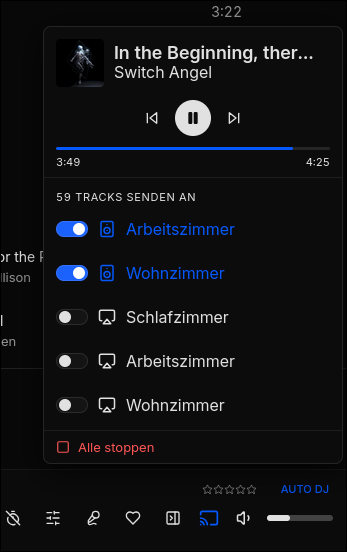
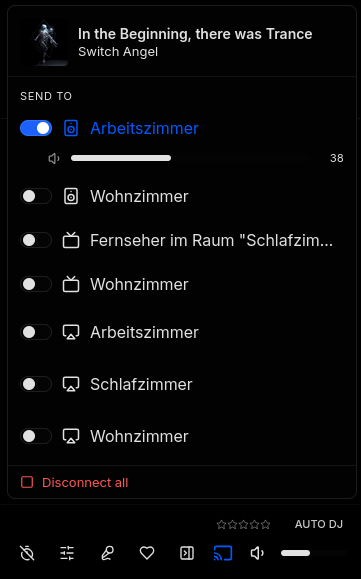
feat: Update changelog and version to 0.2.0

diff --git a/CHANGELOG.md b/CHANGELOG.md
@@ -4,6 +4,36 @@ All notable changes to this project will be documented in this file.
 
 The format is based on [Keep a Changelog](https://keepachangelog.com/en/1.0.0/), and this project adheres to [Semantic Versioning](https://semver.org/spec/v2.0.0.html).
 
+## [0.2.0] - 2026-05-15
+
+### Changed
+
+- **Single-track streaming instead of playlist streaming** — Connect no longer pushes the whole queue to the backend at once. Each track is streamed individually, and the next one is sent automatically when the previous finishes. This makes shuffle / repeat / manual skips behave correctly on the remote and removes the need to re-sync the queue when it changes locally.
+- **Upstream player UI reused for transport controls** — play, pause, next, previous, shuffle, repeat and stop now go through Feishin's existing playerbar controls. When Connect is active, the same buttons drive the remote stream instead of local playback (via `useConnectPlayback` and the `connect.store` handlers wired through `useConnectSession`). No more parallel control surface inside the Connect popover.
+
+### Added
+
+- **Chromecast (Google Cast) support** — stream to any Chromecast device on the network alongside Sonos and AirPlay. Discovery, playback, per-device volume, mid-stream join, and selective stop all work the same way as the other backends. A long-lived `CastBrowser` keeps zeroconf alive for the process lifetime so reconnects after network blips don't fail.
+- **Connect popover refactor** — `connect-button.tsx` was split into focused modules: `connect-popover.tsx`, `connect-session-context.ts`, `use-connect-session.ts`, `use-connect-playback.ts`, and a dedicated Zustand `connect.store.ts`. The pairing modal is now i18n-aware and shows user-friendly error messages.
+- **Backend test suite** — ~115 pytest tests covering `DeliveryManager` parsing and fan-out, all three delivery classes (Sonos, AirPlay, Chromecast), `/discover`, `/device-volume`, `/device-stop`, `/join`, credentials persistence and the Navidrome proxy. Runs in under a second without any real devices.
+
+### Fixed
+
+- **Local + remote double audio during auto track switch** (~20% of the time, Docker only) when **Crossfade** or **Gapless** transitions were enabled in playback settings. The crossfade and gapless handlers in the web player called `audio.play()` imperatively on the next player element, bypassing the status-based safety net. Both handlers now bail out early when Connect is active, eliminating any path for the local player to emit audio while a remote stream is running.
+- **Local player runaway after Connect's track-end advance** — added a safety net that subscribes to the player store and pauses immediately if anything flips local status to `PLAYING` while Connect is active. Catches edge cases (MediaSession API calls, hotkeys, queue mutations) that the explicit `mediaPause()` calls miss.
+- Connect i18n keys restored after upstream locale restructuring.
+
+### Internal
+
+- All remaining German log messages and code comments in the Python backend translated to English for consistency.
+- `__pycache__` and `.pyc` files now gitignored.
+
+### Known issues
+
+- **AirPlay 1 (RAOP) verified** on AirPort Express hardware. **Sonos devices with AirPlay 2** require MFi hardware authentication (proprietary implementation) which pyatv cannot provide — the backend returns HTTP 470 with a clear message. Use Sonos speakers via the Sonos protocol instead.
+
+---
+
 ## [0.1.3] - 2026-05-10
 
 ### Added

diff --git a/README.md b/README.md
@@ -3,7 +3,7 @@
 # Feishin — Connect Fork
 
 > **This is a fork of [jeffvli/feishin](https://github.com/jeffvli/feishin).**
-> It adds **Feishin Connect** — a Spotify Connect-like feature that streams your Navidrome queue to Sonos speakers and AirPlay devices directly from the player bar.
+> It adds **Feishin Connect** — a Spotify Connect-like feature that streams your Navidrome queue to Sonos, AirPlay and Chromecast devices directly from the player bar.
 > All upstream features are preserved.
 
   <p align="center">
@@ -21,7 +21,7 @@
 
 ## Feishin Connect
 
-Feishin Connect adds a cast button to the player bar. Click it to stream the current Navidrome queue — or a radio stream — to any Sonos speaker or AirPlay device on your network, without touching the local player.
+Feishin Connect adds a cast button to the player bar. Click it to stream the current Navidrome queue — or a radio stream — to any Sonos speaker, AirPlay or Chromecast device on your network, without touching the local player.
 
 <img src="assets/feishin-connect-screenshot.png" width="350px">
 
@@ -37,20 +37,21 @@ Please expect rough edges and report issues if you encounter them.
 - Feishin fetches the stream from Navidrome and re-encodes it via **FFmpeg** into a continuous MP3 stream.
 - **Sonos** devices are controlled via UPnP (SoCo) and pull the stream over HTTP.
 - **AirPlay** devices receive the stream pushed via pyatv / RAOP.
+- **Chromecast** devices are controlled via pychromecast and pull the stream over HTTP.
 
 ### Features
 
-- Stream the current queue to one or multiple Sonos / AirPlay devices simultaneously
+- Stream the current queue to one or multiple Sonos / AirPlay / Chromecast devices simultaneously
 - Sonos multiroom grouping (devices play in sync)
-- Per-device volume control with a hover slider
+- Per-device volume control with a hover slider (Sonos and Chromecast)
 - Play/pause/previous/next controls in the popover (operated on the remote device)
 - Radio stream support (sends the live URL directly to the device)
 - Persistent state — Connect continues if you reload Feishin in the browser
-- Local playback pauses automatically when handing off to a device
+- Local playback pauses automatically when handing off to a device (Crossfade and Gapless transitions are also disabled locally while Connect is active to prevent double-audio)
 
 ### Docker (recommended)
 
-Host networking is required so the backend can discover Sonos and AirPlay devices via mDNS/SSDP multicast.
+Host networking is required so the backend can discover Sonos, AirPlay and Chromecast devices via mDNS/SSDP multicast.
 
 ```yaml
 services:
@@ -93,7 +94,7 @@ services:
 ### Requirements
 
 - Navidrome (or compatible Subsonic/OpenSubsonic server)
-- Sonos and/or AirPlay devices on the same network as the Docker host
+- Sonos, AirPlay and/or Chromecast devices on the same network as the Docker host
 - Docker host on Linux (host networking is Linux-only; Mac/Windows users need to run the backend natively)
 
 ### Electron (desktop app)
@@ -181,7 +182,7 @@ Rewrite of [Sonixd](https://github.com/jeffvli/sonixd). Original project by [@je
 - [x] Scrobble playback to your server
 - [x] Smart playlist editor (Navidrome)
 - [x] Synchronized and unsynchronized lyrics support
-- [x] **Stream to Sonos / AirPlay via Feishin Connect** *(this fork)*
+- [x] **Stream to Sonos / AirPlay / Chromecast via Feishin Connect** *(this fork)*
 - [ ] [Request a feature](https://github.com/jeffvli/feishin/issues) or [view taskboard](https://github.com/users/jeffvli/projects/5/views/1)
 
 ### Screenshots
@@ -235,7 +236,7 @@ curl 'https://raw.githubusercontent.com/jeffvli/feishin/refs/heads/development/i
 
 | Feature | This fork | Upstream |
 |---------|-----------|----------|
-| Feishin Connect (Sonos / AirPlay) | ✅ | ❌ |
+| Feishin Connect (Sonos / AirPlay / Chromecast) | ✅ | ❌ |
 | Auto-updater | ❌ disabled | ✅ GitHub Releases |
 | Docker image | `ghcr.io/mihaitom/feishin-connect` | `ghcr.io/jeffvli/feishin` |
 
@@ -270,7 +271,7 @@ Feishin Connect uses **ffmpeg** to transcode Navidrome streams into a continuous
 
 In the Docker image (`ghcr.io/mihaitom/feishin-connect`) ffmpeg is already included.
 
-If ffmpeg is missing, the Connect backend logs `❌ ffmpeg NICHT GEFUNDEN` on startup and all play requests will silently fail.
+If ffmpeg is missing, the Connect backend logs `ffmpeg not found` on startup and all play requests will silently fail.
 
 ### Feishin Connect: no devices found
 
@@ -278,11 +279,7 @@ Ensure the container is running with `network_mode: host`. Without host networki
 
 ### Feishin Connect: nothing plays (device found but no audio)
 
-Check the container or Electron logs for `❌ ffmpeg NICHT GEFUNDEN`. See the ffmpeg install instructions above.
-
-### Feishin Connect: nothing plays (device found but no audio)
-
-Check the container logs for `❌ ffmpeg NICHT GEFUNDEN`. FFmpeg is required for audio transcoding and is included in the Docker image. If you're running the backend natively, install FFmpeg via your package manager.
+Check the container or Electron logs for `ffmpeg not found`. FFmpeg is required for audio transcoding and is included in the Docker image. If you're running the backend natively, install FFmpeg via your package manager — see the ffmpeg install instructions above.
 
 ### I have the issue "The SUID sandbox helper binary was found, but is not configured correctly" on Linux
 